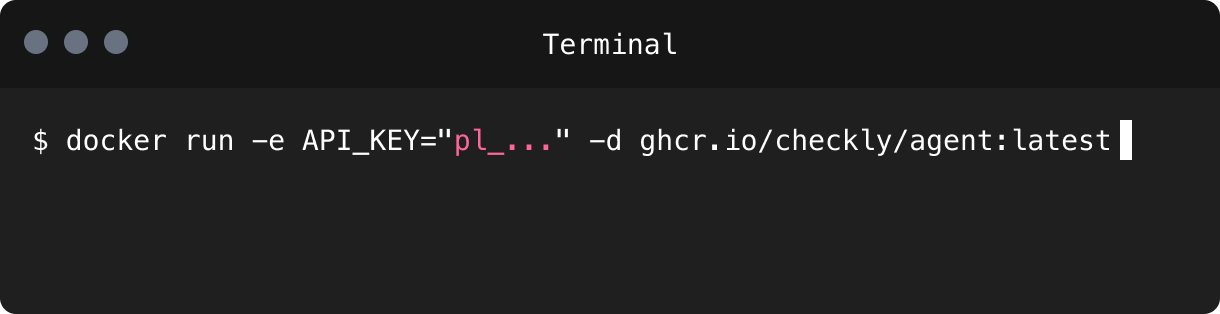
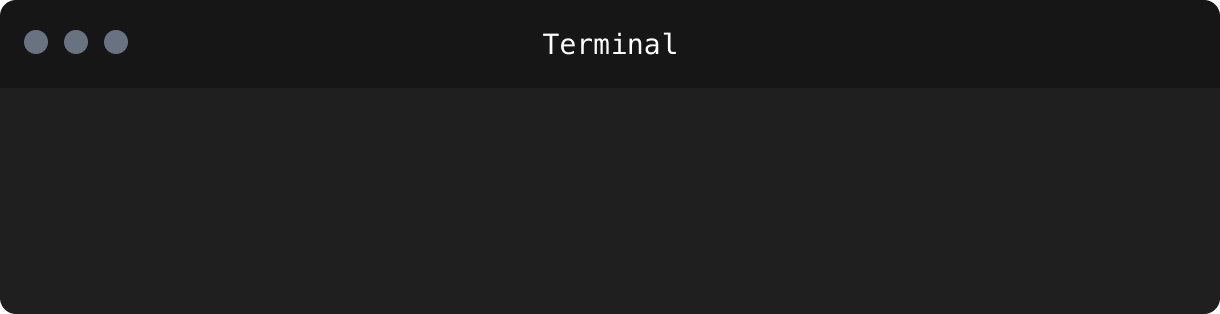
feat: replace terminal with code block

Changed region(s): [[0.4672, 0.3726, 0.9344, 0.5159], [0.0311, 0.4013, 0.4672, 0.5159], [0.4361, 0.4013, 0.4672, 0.4299]]

diff --git a/site/layouts/private-locations/list.html b/site/layouts/private-locations/list.html
@@ -5,7 +5,7 @@
   <div class="private-locations__header">
     <div class="container">
       <div class="row justify-content-center">
-        <div class="col-sm-12 col-md-10 justify-content-center">
+        <div class="private-locations__headerCol col-sm-12 col-md-10 justify-content-center">
           <div class="private-locations__headerContent">
             <div class="tag text-uppercase">{{.Params.header.tag}}</div>
 
@@ -22,14 +22,17 @@
             </a>
           </div>
 
-          <div class="col-sm-12 text-center">
-            <img
-              class="private-locations__header-image"
-              srcset="{{.Params.header.image.src.default}} 1x, {{.Params.header.image.src.retina}} 2x"
-              src="{{.Params.header.image.src.default}}"
-              width="{{.Params.header.image.width}}"
-              height="{{.Params.header.image.height}}"
-              alt="{{.Params.header.image.alt}}" />
+          <div class="private-locations__codeWrapper text-center">
+            <div class="private-locations__code-block">
+              <img
+                class="private-locations__header-image"
+                srcset="{{.Params.header.image.src.default}} 1x, {{.Params.header.image.src.retina}} 2x"
+                src="{{.Params.header.image.src.default}}"
+                width="{{.Params.header.image.width}}"
+                height="{{.Params.header.image.height}}"
+                alt="{{.Params.header.image.alt}}" />
+              <pre class="private-locations__header-code">docker run -e API_KEY="<span>pl_...</span>" -d ghcr.io/checkly/agent:latest</pre>
+            </div>
           </div>
         </div>
       </div>
@@ -175,14 +178,14 @@
   <!-- GET STARTED -->
   <div class="container private-locations__getStarted">
     <div class="row justify-content-center">
-      <div class="col-sm-12 col-lg-10 text-center">
+      <div class="col-sm-12 col-xl-10 text-center">
         <div class="tagline">{{.Params.getStarted.tag}}</div>
         <h2 class="display-2">{{.Params.getStarted.headline}}</h2>
       </div>
     </div>
 
     <div class="row justify-content-center">
-      <div class="col-sm-12 col-lg-5 align-self-center d-flex getStarted-text getStarted-text--opticallyAligned">
+      <div class="col-sm-12 col-xl-5 align-self-center d-flex getStarted-text getStarted-text--opticallyAligned">
         <div class="tag">1</div>
         <div>
           <h3 class="display-4">{{.Params.getStarted.item1.headline}}</h3>
@@ -190,7 +193,7 @@
         </div>
       </div>
 
-      <div class="col-sm-12 col-lg-6 offset-lg-1 align-self-center text-center">
+      <div class="col-sm-12 col-xl-6 offset-xl-1 align-self-center text-center">
         <img
           srcset="{{.Params.getStarted.item1.image.src.default}} 1x, {{.Params.getStarted.item1.image.src.retina}} 2x"
           src="{{.Params.getStarted.item1.image.src.default}}"
@@ -199,7 +202,7 @@
           alt="{{.Params.getStarted.item1.image.alt}}" />
       </div>
 
-      <div class="col-sm-12 col-lg-5 align-self-center d-flex getStarted-text">
+      <div class="col-sm-12 col-xl-5 align-self-center d-flex getStarted-text">
         <div class="tag">2</div>
         <div>
           <h3 class="display-4">{{.Params.getStarted.item2.headline}}</h3>
@@ -207,16 +210,11 @@
         </div>
       </div>
 
-      <div class="col-sm-12 col-lg-6 offset-lg-1 align-self-center text-center">
-        <img
-          srcset="{{.Params.getStarted.item2.image.src.default}} 1x, {{.Params.getStarted.item2.image.src.retina}} 2x"
-          src="{{.Params.getStarted.item2.image.src.default}}"
-          width="{{.Params.getStarted.item2.image.width}}"
-          height="{{.Params.getStarted.item2.image.height}}"
-          alt="{{.Params.getStarted.item2.image.alt}}" />
+      <div class="col-sm-12 col-xl-6 offset-xl-1 align-self-center text-center">
+        <pre class="getStarted-code">docker run -e API_KEY="<span>pl_...</span>" -d ghcr.io/checkly/agent:latest</pre>
       </div>
 
-      <div class="col-sm-12 col-lg-5 align-self-center d-flex getStarted-text">
+      <div class="col-sm-12 col-xl-5 align-self-center d-flex getStarted-text">
         <div class="tag">3</div>
         <div>
           <h3 class="display-4">{{.Params.getStarted.item3.headline}}</h3>
@@ -224,7 +222,7 @@
         </div>
       </div>
 
-      <div class="col-sm-12 col-lg-6 offset-lg-1 align-self-center text-center">
+      <div class="col-sm-12 col-xl-6 offset-xl-1 align-self-center text-center">
         <img
           srcset="{{.Params.getStarted.item3.image.src.default}} 1x, {{.Params.getStarted.item3.image.src.retina}} 2x"
           src="{{.Params.getStarted.item3.image.src.default}}"

diff --git a/src/scss/_private-locations.scss b/src/scss/_private-locations.scss
@@ -13,6 +13,10 @@
     height: auto;
   }
 
+  pre {
+    user-select: all;
+  }
+
   .display-1 {
     font-size: 24px;
     font-weight: 700;
@@ -55,6 +59,12 @@
   }
 }
 
+.private-locations__headerCol {
+  @media (min-width: 650px) {
+    max-width: 610px;
+  }
+}
+
 .private-locations__headerContent {
   @media (max-width: 767px) {
     display: flex;
@@ -81,13 +91,60 @@
   }
 }
 
-.private-locations__header-image {
+.private-locations__codeWrapper {
   margin-top: 1rem;
   margin-bottom: -4rem;
 
   @media (min-width: 992px) {
     margin-top: 3rem;
   }
+}
+
+.private-locations__code-block {
+  display: inline-grid;
+  grid-template-areas: "content";
+}
+
+.private-locations__code-block > * {
+  grid-area: content;
+}
+
+.private-locations__header-code {
+  margin-bottom: 0;
+  padding: 8.25vw 2.5vw 2.5vw;
+  color: #fff;
+  font-family: 'Menlo', monospace;
+  font-size: 2.2vw;
+  background-color: transparent;
+  text-align: left;
+
+  span {
+    color: #ee6d9b;
+  }
+
+  @media (min-width: 650px) {
+    padding: 3.5rem 1rem 1rem;
+    font-size: 14px;
+  }
+}
+
+.private-locations__header-code::before {
+  content: "$";
+  margin-right: .5em;
+}
+
+.private-locations__header-code::after {
+  content: "▌";
+  margin-left: 0.25em;
+  font-size: 1.2em;
+  animation: blink 1s infinite linear;
+}
+
+@keyframes blink {
+  0% { opacity: 1 }
+  50% { opacity: 1 }
+  50.1% { opacity: 0 }
+  100% { opacity: 0 }
 }
 
 .private-locations__intro {
@@ -198,7 +255,8 @@
     }
   }
 
-  img {
+  img,
+  pre {
     margin-bottom: 3rem;
   }
 }
@@ -207,8 +265,21 @@
   padding-bottom: 1rem;
 
   &--opticallyAligned {
-    @media (min-width: 992px) {
+    @media (min-width: 1200px) {
       padding-bottom: 7rem;
     }
+  }
+}
+
+.getStarted-code {
+  display: inline-block;
+  padding: 1em 1.5em 1em 1em;
+  font-family: 'Menlo', monospace;
+  font-size: 14px;
+  background: #EFF2F7;
+  border-radius: 4px;
+
+  span {
+    color: #ee6d9b;
   }
 }

diff --git a/site/content/private-locations/_index.md b/site/content/private-locations/_index.md
@@ -82,13 +82,6 @@ getStarted:
   item2:
     headline: Install the container
     text: Install and run the container in your infrastructure using this API key to retrieve, run and store checks and their results.
-    image:
-      src: 
-        default: /private-locations/get-started-02.png
-        retina: /private-locations/get-started-02@2x.png
-      width: 570
-      height: 54
-      alt: "installing the contrainer in your infrastructure"
   item3:
     headline: Create checks
     text: Write your checks in the Checkly UI and get your internal application testing rollin’.
